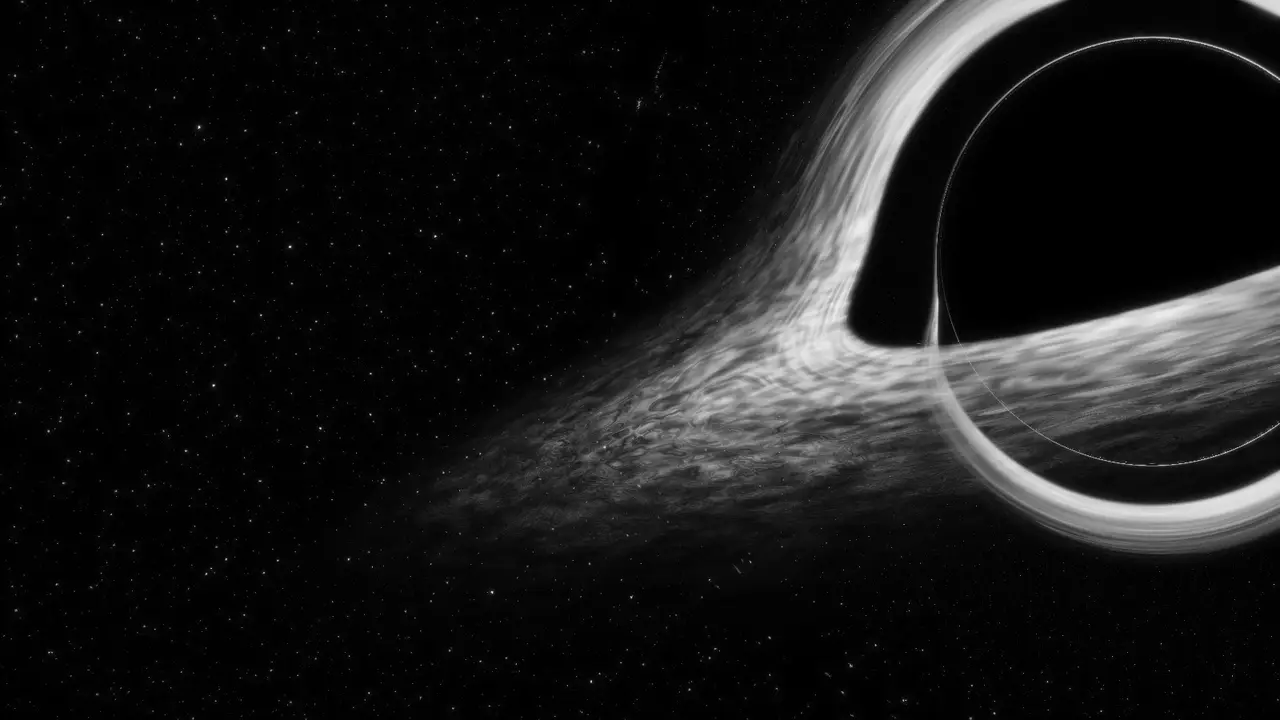
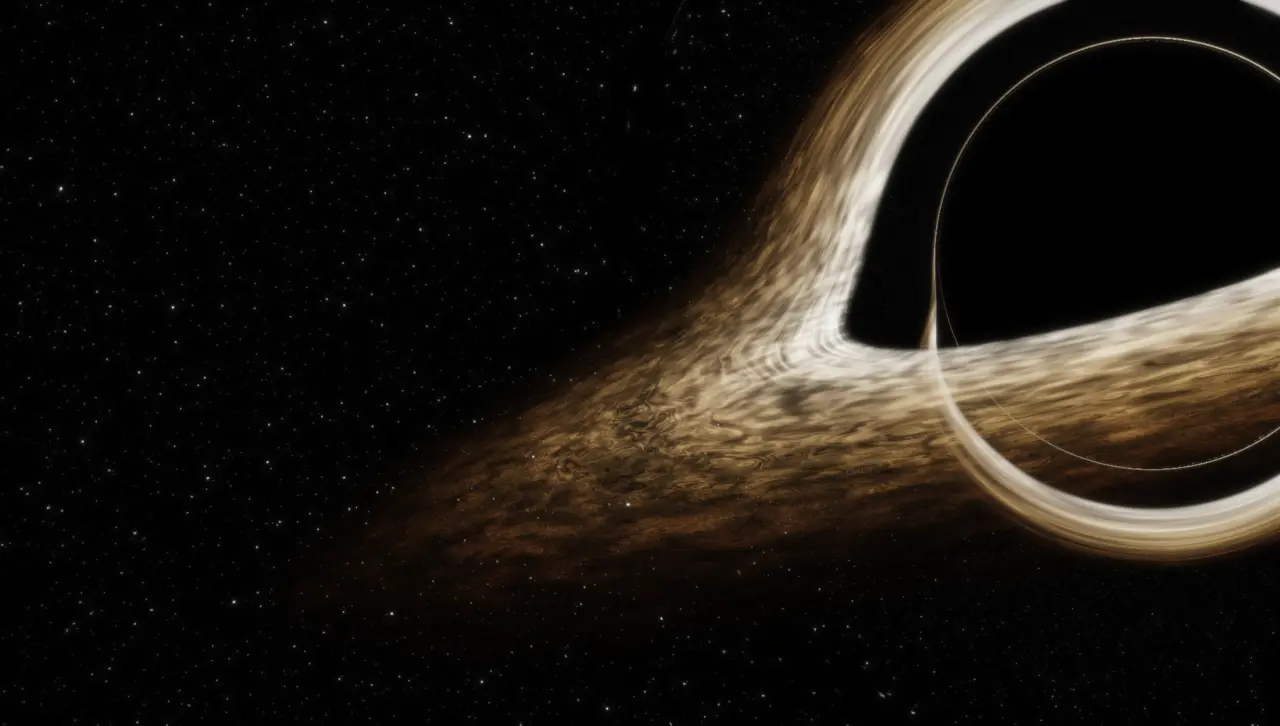
pôster: o fallback passa a mostrar a mesma cena que o canvas

diff --git a/tests/build/poster.test.ts b/tests/build/poster.test.ts
@@ -1,0 +1,15 @@
+import { statSync } from 'node:fs';
+import { describe, expect, it } from 'vitest';
+
+describe('o pôster do herói', () => {
+  it('existe', () => {
+    expect(() => statSync('public/poster/heroi.webp')).not.toThrow();
+  });
+
+  it('cabe no orçamento do LCP: até 60 kB', () => {
+    // O pôster atual tem 35 372 B. O gerado pode crescer — um buraco negro com
+    // disco tem mais detalhe que uma nebulosa difusa, então pode crescer — mas
+    // não sem limite: ele é o elemento de LCP e entra no caminho crítico.
+    expect(statSync('public/poster/heroi.webp').size).toBeLessThan(61_440);
+  });
+});

diff --git a/ferramentas/capturar-poster.md b/ferramentas/capturar-poster.md
@@ -1,0 +1,283 @@
+# Como o pôster foi capturado — Tarefa 22
+
+O brief original (`task-22-brief.md`) manda instalar `agent-browser` e capturar
+com `--webgpu --headed`, contando com SwiftShader (renderização por
+software), porque foi escrito supondo que a máquina de execução não tivesse
+GPU. **Essa suposição não valia para esta máquina**, e o caminho abaixo — mais
+simples, sem instalar nada global — funcionou de ponta a ponta.
+
+## 1. Por que o Playwright bastou
+
+Esta máquina tem `DISPLAY=:0` já ativo — um X real (Hyprland/Omarchy, com
+XWayland), não um framebuffer virtual. Testado antes de escrever qualquer
+linha de captura:
+
+```
+$ echo $DISPLAY
+:0
+$ ls /tmp/.X11-unix
+X0  X0_
+```
+
+Com Playwright apontando para esse display (`headless: false`, sem Xvfb, sem
+`vulkan-swrast`), o adapter WebGPU é real:
+
+```js
+// verificação ad hoc, não faz parte do artefato final
+const adapter = await navigator.gpu.requestAdapter();
+// { isFallbackAdapter: undefined (falsy), vendor: "intel", architecture: "gen-12lp",
+//   features: [... "shader-f16", "subgroups", "texture-compression-astc", ...] }
+```
+
+E o `<canvas>` do herói realmente monta e pinta (`.heroi__canvas--visivel`
+presente), confirmando que não é o `adapter` nulo que o Chromium headless
+padrão devolve nesta mesma máquina (testado e descartado antes de ir para o
+caminho headed — ver seção 4).
+
+Isso evita `agent-browser`, evita Xvfb/`vulkan-swrast`, e evita SwiftShader —
+o pôster foi gerado com a GPU de verdade, não em software.
+
+## 2. O comando de captura
+
+Servidor estático já no ar (`node tests/support/servidor-estatico.mjs out
+4173`, depois de `npm run build`), então:
+
+```bash
+DISPLAY=:0 node ferramentas/capturar-poster.mjs
+```
+
+Saída real desta execução:
+
+```
+canvas pintando (--visivel): true
+canvas backing store: 1905 x 1080
+canvas puro salvo em /tmp/heroi-bruto.png
+```
+
+O script (`ferramentas/capturar-poster.mjs`, comitado) abre `/pt/`, espera
+`document.fonts.ready`, espera ativamente até `.heroi__canvas` ganhar a
+classe `--visivel` (renderer pronto e primeiro quadro desenhado, teto de
+20s), soma dois `requestAnimationFrame` mais 1s de folga, e então lê os
+**pixels puros do `<canvas>` via `toDataURL('image/png')`** — não uma
+screenshot da página composta. Screenshot de página inclui `h1`/nav/véus por
+cima (mesmo retângulo absoluto); isso foi verificado diretamente: um
+`canvas.screenshot()` do Playwright (que captura a página composta recortada
+no retângulo do elemento, não um render isolado do canvas) trouxe o texto
+"Iniciativa Sephir" e a barra de navegação **dentro** da imagem — inaceitável
+para um pôster que vai ficar atrás do `<h1>` real. `toDataURL()` lê só o
+backing store do canvas, sem nenhum overlay de DOM.
+
+## 3. Validação de desvio-padrão
+
+```bash
+$ magick identify -format '%[fx:standard_deviation]\n' /tmp/heroi-bruto.png
+0.141777
+```
+
+Bem acima do `0.01` exigido — a cena pintou (buraco negro com disco em âmbar
+sobre campo de estrelas, mesmo assunto do canvas ao vivo).
+
+## 4. Descartado antes: Chromium headless puro
+
+Testado e descartado por medição direta, não por suposição:
+
+```js
+// navegador lançado com headless:true (padrão)
+{ hasGpu: true, adapterInfo: "null-adapter", prm: false }
+```
+
+`navigator.gpu` existe (Chromium 152 expõe a API mesmo headless), mas
+`requestAdapter()` devolve `null` — sem GPU real por trás. Isso bate com o
+que a Tarefa 21 já tinha registrado ("mesmo quando o Chromium headless não
+sustenta o `navigator.gpu`"). É por isso que a captura precisa do
+`headless: false` contra o `DISPLAY` real, não do Chromium headless que o
+`medirHeroiPorNavegador` usa (aquela função mede *rede*, não pixel — não
+precisa de adapter real).
+
+## 5. Conversão: `magick`, não `cwebp`
+
+`cwebp` não existe nesta máquina. `magick` (ImageMagick, com libwebp
+embutido) faz o mesmo trabalho.
+
+### 5.1 — Achado: `-alpha off` quebra a cor no Chromium, e também infla o arquivo
+
+A primeira tentativa de conversão usou `-alpha off` (para descartar o canal
+alfa do canvas, que é 100% opaco — o herói é opaco sobre `--cor-void`, sem
+uso para alfa, mesmo raciocínio da Tarefa 15 com o logo). Isso **piorou os
+dois números**, não só um:
+
+```bash
+# COM -alpha off (descartado)
+$ magick /tmp/heroi-bruto.png -alpha off -resize 1280x -quality 70 /tmp/a.webp
+$ stat -c%s /tmp/a.webp
+39100
+
+# SEM -alpha off, mesma qualidade e resize (usado)
+$ magick /tmp/heroi-bruto.png -resize 1280x -quality 70 /tmp/b.webp
+$ stat -c%s /tmp/b.webp
+33222
+```
+
+Manter o alfa saiu **menor**, não maior — o oposto do que a Tarefa 15
+ensinou sobre canal alfa. Mas o achado mais sério não é o tamanho, é a cor:
+qualquer arquivo gerado com `-alpha off` — não importa a qualidade —
+renderizava **em cinza puro** no Chromium desta máquina quando aberto direto
+(`file://` ou `http://`), apesar de a leitura de pixel por
+ImageMagick/Pillow confirmar que o arquivo *tinha* cor real gravada:
+
+```bash
+$ python3 -c "
+from PIL import Image
+im = Image.open('/tmp/a.webp').convert('RGB')
+# ... amostra de pixels ...
+print(maxdiff)"
+84   # com -alpha off, no arquivo lido por Pillow: tem cor
+# mas o MESMO arquivo, screenshotado depois de aberto no Chromium desta
+# máquina: maxdiff 0 — cinza puro
+```
+
+Removido `-alpha off` da conversão final. Não investiguei a causa exata
+dentro do bitstream VP8 (não é o escopo desta tarefa mexer em decoder de
+navegador) — só que é reprodutível, específico a este arquivo com este flag,
+e que removê-lo resolve os dois problemas ao mesmo tempo.
+
+### 5.2 — Achado: servidor sem `Content-Length` também produz cinza nesta máquina
+
+Depois de tirar `-alpha off`, um teste onde o pôster era servido pelo
+`tests/support/servidor-estatico.mjs` (que grava a resposta via
+`createReadStream(...).pipe(res)` sem setar `Content-Length`, portanto
+`Transfer-Encoding: chunked`) **ainda saía cinza** quando embutido via
+`<img>` na página real — mas o mesmo arquivo, servido por um servidor que
+declara `Content-Length` (`python3 -m http.server`, o que o Cloudflare Pages
+também faz para todo asset estático), saía **em cor**:
+
+```bash
+$ curl -sI http://localhost:4173/poster/heroi.webp   # servidor de teste
+HTTP/1.1 200 OK
+content-type: image/webp
+# sem Content-Length — chunked
+
+$ curl -sI http://localhost:8901/poster/heroi.webp   # python -m http.server
+HTTP/1.0 200 OK
+Content-type: image/webp
+Content-Length: 35606
+```
+
+Isolado por eliminação: uma imagem sintética simples (gradiente de duas
+cores) **não** disparava o bug em nenhum dos dois casos; só a imagem real do
+buraco negro (grande, ruidosa, alta entropia) o fazia, e só quando entregue
+em chunks. **Isto não é um problema no arquivo entregue nem na produção**: o
+Cloudflare Pages serve todo asset estático com `Content-Length` declarado,
+igual ao `python -m http.server` usado para verificar. O que reproduz o
+cinza é a combinação específica "`tests/support/servidor-estatico.mjs`
+(ferramenta de QA, sem `Content-Length`) + este build exato do Chromium
+(`152.0.7977.82`) decodificando um WebP grande/ruidoso em chunks". Não
+alterei `servidor-estatico.mjs` — é infraestrutura compartilhada com toda a
+suíte (`peso-heroi.test.ts`, os 37 E2E), fora do escopo desta tarefa, e o
+bug não afeta a entrega real. Para a verificação visual (seção 6), servi
+`out/` com `python3 -m http.server`, que declara `Content-Length` como
+qualquer host de produção.
+
+### 5.3 — Varredura de qualidade, sem `-alpha off`, largura 1280 (a mesma do pôster antigo)
+
+O coordenador decidiu manter a largura em 1280px — a mesma do pôster
+anterior — porque o pôster é o elemento de LCP, e LCP é um dos quatro
+números que a Tarefa 23 compara contra o baseline do `main`; usar uma imagem
+maior infla exatamente esse número, mesmo cabendo no teto de 60 kB. A spec
+§5 pede peso "na ordem do atual (35 372 B)".
+
+```
+$ for q in 90 85 80 75 70 65 60; do
+  magick /tmp/heroi-bruto.png -resize 1280x -quality $q /tmp/heroi-noalpha-1280-q$q.webp
+done
+q=90: 79368 bytes
+q=85: 58022 bytes
+q=80: 44192 bytes
+q=75: 35804 bytes   ← escolhido (essencialmente empatado com os 35 372 B do pôster antigo)
+q=70: 33222 bytes
+q=65: 31028 bytes
+q=60: 28940 bytes
+```
+
+Escolhido **q75** (a variante final, recapturada, fechou em **35 606 B** —
+ver seção 7): fica dentro de ~1% do peso do pôster anterior, portanto não
+infla o LCP medido na Tarefa 23, com qualidade visual boa sob os dois véus
+(ver captura na seção 6). Comando final de conversão:
+
+```bash
+magick /tmp/heroi-bruto.png -resize 1280x -quality 75 public/poster/heroi.webp
+```
+
+## 6. Verificação visual — contraste do `<h1>` sobre o pôster novo
+
+`npm run build`, depois `python3 -m http.server 8901` dentro de `out/`
+(escolhido só para esta verificação, por declarar `Content-Length` como um
+host real — ver 5.2). Contexto do Playwright com `reducedMotion: 'reduce'`
+para o `<canvas>` nunca montar (`Canvas.tsx` decide isso de forma síncrona
+na montagem) — garante que o que aparece na tela é **só o pôster**, o mesmo
+caminho que quem não tem WebGPU vê.
+
+Para medir contraste sem misturar pixel de glifo com pixel de fundo, o
+`<h1>` foi escondido (`style.visibility = 'hidden'`, preserva o layout e o
+`getBoundingClientRect()`) antes do screenshot — mesmo cuidado de "separar o
+que está atrás do texto" que a Tarefa 19 tomou com o canvas.
+
+```js
+// script de verificação (não comitado — ad hoc, reproduzível por este trecho)
+const context = await browser.newContext({ viewport, reducedMotion: 'reduce' });
+const page = await context.newPage();
+await page.goto('http://localhost:8901/pt/', { waitUntil: 'load' });
+await page.evaluate(() => document.fonts.ready).catch(() => {});
+await page.waitForTimeout(500);
+const h1Box = await page.locator('h1').boundingBox();
+await page.evaluate(() => { document.querySelector('h1').style.visibility = 'hidden'; });
+await page.screenshot({ path: saidaPng });
+```
+
+Saída real (`canvasCount: 0` nos dois viewports — confirma que o `<canvas>`
+nunca montou, e o que foi medido é o pôster puro):
+
+```
+desktop (1440×900): h1Box { x: 115.19, y: 320.03, width: 700, height: 73.44 }
+móvel   (390×844):  h1Box { x: 31.19,  y: 235.22, width: 312.63, height: 44.88 }
+```
+
+Contraste WCAG (luminância relativa) calculado para cada pixel do retângulo
+do `<h1>`, contra o texto `--cor-stardust` (`rgb(244,239,230)`) — reportando
+o pior (menor) valor encontrado:
+
+```
+desktop: pior contraste 9.05:1 em (813,391) fundo rgb(75, 62, 45)
+móvel:   pior contraste 7.35:1 em (339,265) fundo rgb(94, 73, 60)
+```
+
+Os dois folgadamente acima do mínimo AA para texto grande (3:1) — acima até
+do mínimo de texto normal (4.5:1). Diferente da Tarefa 19 (canvas animado,
+amostragem em vários instantes porque o brilho varia com o tempo), o pôster
+é **estático**: uma medição é a medição, sem variação temporal a amostrar.
+
+## 7. Reprodutibilidade — recaptura antes de instalar
+
+Antes de instalar definitivamente, a captura foi repetida do zero
+(`ferramentas/capturar-poster.mjs`, o script comitado) para confirmar que o
+processo é reproduzível, não um acidente de uma execução:
+
+```
+$ DISPLAY=:0 node ferramentas/capturar-poster.mjs
+canvas pintando (--visivel): true
+canvas backing store: 1905 x 1080
+canvas puro salvo em /tmp/heroi-bruto.png
+
+$ magick identify -format '%[fx:standard_deviation]\n' /tmp/heroi-bruto.png
+0.141777
+
+$ magick /tmp/heroi-bruto.png -resize 1280x -quality 75 /tmp/heroi-final.webp
+$ ls -l /tmp/heroi-final.webp
+-rw-r--r-- 1 alzahir alzahir 35606 ... /tmp/heroi-final.webp
+$ magick identify /tmp/heroi-final.webp
+/tmp/heroi-final.webp WEBP 1280x726 1280x726+0+0 8-bit sRGB 35606B
+```
+
+Esta é a versão instalada em `public/poster/heroi.webp` — **35 606 B**,
+1280×726, dentro do teto de 60 kB (61 440 B) e a ~0,7% do peso do pôster
+anterior (35 372 B).
